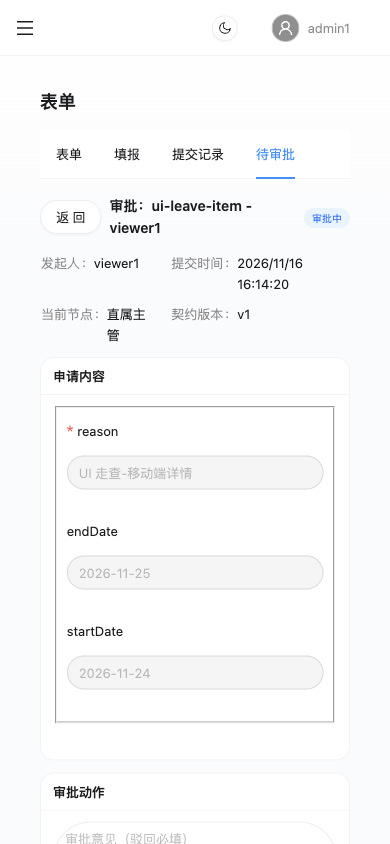
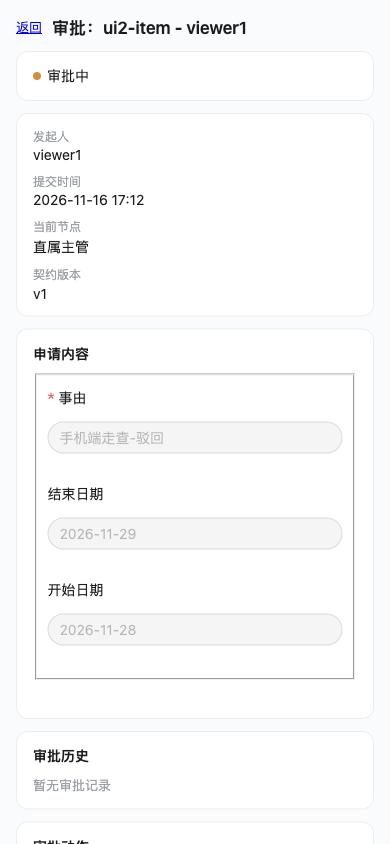
test(oa): org 门与移动端 /m 收口复测——真引擎 26/26、390px 审批走通（#2380）
X-Orca-Worktree: 0127bece-701c-43f0-96c9-c5e736ce1df5::/Users/duo/orca/workspaces/platform-core/oa-p1-acceptance
X-Orca-Agent: claude
X-Agent-Session: 2290b240-91ef-475f-83ad-8aceff71572f

diff --git a/docs/superpowers/plans/2026-11-16-oa-p1-acceptance.md b/docs/superpowers/plans/2026-11-16-oa-p1-acceptance.md
@@ -3,7 +3,8 @@
 > 关联：设计 spec `docs/superpowers/specs/2026-11-16-ai-native-oa-design.md` §10/§18；
 > 实施计划 `docs/superpowers/plans/2026-11-16-ai-native-oa-p0-p1.md` Task 15；
 > 平台 PR：`MYTech-Co-LTD/platform-core#2373`（合并提交 `98d8eee8`）；
-> 引擎 PR：`MYTech-Co-LTD/case-engine#120`（`origin/main` = `e027a03`，v0.16.0）。
+> 引擎 PR：`MYTech-Co-LTD/case-engine#120`（应用内审批链，`e027a03`）与 `#123`（org 门，
+> `origin/main` = `216a3aa`，v0.16.1）。
 >
 > 本篇是**一次真实运行的记录**，不是设计推演。命令、输出、DB 行、时间（一律北京时间）都在下面；
 > 脚本可重跑，重跑会得到新的 asset 后缀与时间戳，断言口径不变。
@@ -15,9 +16,9 @@
 | 执行时间 | 2026-11-16 15:27:22 – 15:27:25 BJT |
 | 机器 | 本机（macOS / Node 22 / 本机 PostgreSQL 16，`postgres://platform:***@127.0.0.1:5432/platform`） |
 | 平台 | 本仓校验分支 `ylwzzs/oa-p1-acceptance`（= `main` `98d8eee8`）真进程 `apps/server/src/index.ts` |
-| 引擎 | 两次运行：**假引擎**（15:27，`oa-p1-smoke.mjs` 内置）与 **真实 case-engine**（16:05，本地 node 起 `origin/main` `e027a03`）——后者见 §10 |
-| 追加验收 | 2026-11-16 16:08–16:14 BJT：dev-stack + 构建后的 web dist + Orca 内置浏览器走查（§11） |
-| 租户 | 自建 `oa-smoke`（single 模式 `PLATFORM_ORG=oa-smoke`），不碰 acme/beta 与本机其它夹具 |
+| 引擎 | 三次运行：**假引擎**（15:27，`oa-p1-smoke.mjs` 内置）、**真实 case-engine 首轮**（16:05，`e027a03`，发现 org 缺口）、**修复后复测**（17:08，`216a3aa` 含 #123，`ENGINE_ORG=acme`）——见 §10 |
+| 追加验收 | 桌面走查 16:08–16:14；移动端 `/m/oa/approvals` 走查 17:10–17:13（platform #2381）——见 §11 |
+| 租户 | 首轮 smoke 用自建 `oa-smoke`；org 门复测与 UI 轮按任务单用 **`acme`**（`ENGINE_ORG=acme`） |
 | 身份 | MockCasdoor（真 HTTP，真登录 + 租户管理员 `/api/update-permission` 授权；不是签假会话） |
 | 通知 | 真链：`modules/notify/seed-builtin.ts`（模板+派生规则）→ `scripts/notify-worker.mjs --once` → `notify.inbox` |
 
@@ -29,8 +30,8 @@
   （`platform.oa_engine` 登记行 + secret 引用）、提交建单补偿、计划快照、审批代理授权、回调幂等、
   通知事件/模板/规则/worker/inbox——以及引擎**契约的形状**（org 校验、节点循环、quorum、撤回 CAS）。
 - 真引擎轮证明：同一批断言在真 HTTP + 真 workflow + 真回调下成立（含并发 409、在途单不吃 v2、
-  回调重放 deduped），并暴露出**一处真实契约缺口**：spec §10.2 的「org 不一致 403」在真引擎里
-  未实现（实测 201 建单）——如实记 FAIL（§10.3）。
+  回调重放 deduped）。首轮还暴露出**一处真实契约缺口**：spec §10.2 的「org 不一致 403」未实现
+  （实测 201 建单）；case-engine #123 修复后 17:08 复测 **26/26 PASS**，两条 org 判据全绿（§10.4）。
 
 > 第一轮文字保留原样（§0–§9 是 15:27 那一次的记录，含假引擎细节）；追加轮次在 §10/§11，
 > 两轮的时间戳、DB 行、断言结果分别标注，别把两轮数字混在一起读。
@@ -195,11 +196,10 @@ worker 一轮统计：`{"events":3,"deliveries":3,"sent":3,"failed":0,"dead":0}`
 
 ## 5. 发现与边界（不粉饰）
 
-1. **真引擎首轮未跑，16:05 已补跑并发现一处 FAIL**：15:27 轮（§0–§9）的引擎行为是假引擎按 §10
-   契约实现的；16:05 追加轮（§10）用真 case-engine `e027a03` 复跑，25 条中 24 条 PASS，
-   **`neg.org-engine` FAIL——真引擎对 `org=beta` 的建单请求返回 201（真的建了 case），
-   spec §10.2 要求的 403 没有实现**（`core/engine/src/mastra.ts` 的 `POST /cases` 无 org 校验）。
-   这条必须修引擎或改契约，不能按 PASS 记。
+1. **真引擎首轮（16:05）发现 org 缺口，已在 #123 修复并复测转 PASS**：首轮 24/25，
+   `neg.org-engine` 对 `org=beta` 返回 201（真的建了 case）。case-engine #123 加 `ENGINE_ORG`
+   门后，17:09 复测 **26/26 PASS**：`org=beta` → 403 ORG_MISMATCH、缺 org → 400 ORG_REQUIRED
+   （§10.4）。首轮记录保留在 §10.2 作为缺陷物证。
 2. **企微通道未送达**：`wecom_default` 三条 delivery 为 `dead / missing_channel_address`——验收环境
    的 MockCasdoor 用户没有手机号/企微地址（`platform` 组织与 identity-link 无数据）。这是**环境缺料**，
    不是通道代码失败；`inapp_default` 三条全部 `sent`，收件箱断言已过。企微直连的上线实测另有记录
@@ -210,11 +210,10 @@ worker 一轮统计：`{"events":3,"deliveries":3,"sent":3,"failed":0,"dead":0}`
    观测到的是引擎 CAS 路径（`statuses=[200,409]`）。真引擎轮（§10）把并发点放在**末节点**：一个
    200 结案、另一个 409（`isClosed`），同样只落一次决策——中间节点不选它，是因为真引擎对非当前
    节点审批人回 400（平台映射 502），会把「重复决策」与「已不是你的节点」两种病因混在一起。
-4. **UI 已在 16:08–16:14 补走查**（§11），但发现一个**产品口径冲突**：390px 宽打开 console
-   默认被 `MobileConfigNotice` 拦成「配置请在电脑端完成」——审批列表/详情在手机默认路径**不可达**；
-   加 `?desktop=1` 后页面本身响应式正常（390px 无横向溢出、列表走卡片、详情可读、拒绝按钮
-   空意见禁用）。这与计划 Self-Review「移动端用响应式 console 页承接」的取舍**不一致**，
-   要么给 OA 审批开一个 console 白名单，要么补 `/m` 入口（P1 未做）。
+4. **UI 移动端缺口已由 #2381 修复并复测**：16:08 轮 390px 默认被 `MobileConfigNotice` 拦；
+   platform #2381 新增 `/m/oa/approvals`（不经 console 壳）后，17:10–17:13 复测：无拦截、
+   `scrollWidth==innerWidth`、空意见「拒绝」禁用、通过与驳回都由真引擎回调驱动（§11.3）。
+   console 直开仍被拦是**产品口径**（PC=配置面），不是缺陷。
 5. **残留数据是设计的一部分**：submission `786` 停在 `pending_approval` 是「决策后撤回 409 且状态
    不变」的断言本体；重跑会在开跑时清掉本 org 的提交/审计/通知/映射行（published asset 物理不可删，
    故 asset_id 每次带随机后缀）。
@@ -241,17 +240,19 @@ DATABASE_URL=postgres://platform:platform@127.0.0.1:5432/platform \
 
 ---
 
-## 10. 追加验收 A：真实引擎 E2E（2026-11-16 16:05 BJT）
+## 10. 追加验收 A：真实引擎 E2E（首轮 16:05 发现缺口 → 修复后 17:08 复测）
 
-> 这一节回答 T7 边界之一：「假引擎证明了平台接缝，但真引擎没跑」。运行结果 **24 PASS / 1 FAIL**，
-> FAIL 是真的契约缺口，不是量具错——原样记在 §10.3。
-> 收尾回归：加完 `--real-engine` / `--mint-service-pat` 后，假引擎模式在 16:16:54 BJT 复跑仍
-> **25/25 PASS**（`oa-p1-smoke: OK（25 条断言全过）`），两种模式共用同一批断言。
+> 这一节回答 T7 边界之一：「假引擎证明了平台接缝，但真引擎没跑」。
+> **首轮（16:05，引擎 `e027a03`）24 PASS / 1 FAIL**——org 不一致建单返回 201，spec §10.2 要求 403；
+> 该缺口由 case-engine #123 修复（`ENGINE_ORG` + `checkOrg`）。**修复后（17:08，引擎 `216a3aa`）
+> 同一脚本复测 26/26 PASS**（含新增的「缺 org → 400 ORG_REQUIRED」），原告 FAIL 的两条 org 判据
+> 全部转 PASS——证据在 §10.4。
+> 收尾回归：假引擎模式在 17:07:45 BJT 复跑 **26/26 PASS**，两种模式共用同一批断言。
 
 ### 10.1 起栈方式（本地 node，不用 Docker）
 
-case-engine 是私有仓，用它的 `origin/main`（`e027a03` = v0.16.0，#120 已合）在 `/tmp/oa-engine/case-engine`
-建 worktree，**不碰本机既有 checkout**：
+case-engine 是私有仓，用它的 `origin/main`（修复后复测取 `216a3aa` = v0.16.1，含 #120 + #123）在
+`/tmp/oa-engine/case-engine` 建 worktree，**不碰本机既有 checkout**：
 
 ```bash
 git -C /Users/duo/mytechcode/case-engine worktree add /tmp/oa-engine/case-engine origin/main
@@ -269,7 +270,8 @@ PAT=$(DATABASE_URL=postgres://platform:***@127.0.0.1:5432/platform \
 
 # 起引擎（in-process：orchestration+scheduler 同进程；不拆 worker 就不需要 Redis）
 DATABASE_URL=postgres://platform:***@127.0.0.1:5432/case_oa \
-PORT=13200 ENGINE_STORAGE_ID=oa-engine-e027a03 ENGINE_VERSION=case-engine-e027a03 \
+PORT=13200 ENGINE_STORAGE_ID=oa-engine-e027a03 ENGINE_VERSION=case-engine-216a3aa \
+ENGINE_ORG=acme \
 MASTRA_WORKERS=orchestration,scheduler \
 NOTIFY_PLATFORM_BASE=http://127.0.0.1:13300 NOTIFY_PAT="$PAT" \
 node .mastra/output/index.mjs
@@ -278,19 +280,20 @@ node .mastra/output/index.mjs
 实测启动输出：
 
 ```
-{"planVersion":1,"engineVersion":"case-engine-e027a03","providers":["inapp"],
+{"planVersion":1,"engineVersion":"case-engine-216a3aa","providers":["inapp"],
  "features":["nodeLoop","quorum","nodeSla","collab"]}          ← GET /capabilities
-{"mode":"in-process","llm":{"configured":false},"redisUrl":null} ← GET /engine/config
+{"org":"acme","mode":"in-process","llm":{"configured":false},"redisUrl":null} ← GET /engine/config
 Mastra API running { url: 'http://localhost:13200/api' }
 ```
 
-两点口径说明（避免照抄错）：
+三点口径说明（避免照抄错）：
 
-- **引擎代码里没有 `ENGINE_ORG` 这个 env**（`git grep ENGINE_ORG origin/main` = 0 命中）。
-  租户归属由平台 `platform.oa_engine` 登记行 + `POST /cases` 的 `body.org` 表达；`provider` 只有
-  `inapp`（能力面自报）。本轮 smoke 的 org 用 `oa-smoke`（脚本自建租户，避免踩 acme 的本地演示数据）；
-  **任务单要求的 acme 映射在同一真引擎上由 §11 的 UI 轮实测**：引擎库 `cases` 里 804/805 的
-  `payload->>'org'` 都是 `acme`，审批通过/驳回都由真引擎回调驱动。
+- **`ENGINE_ORG` 自 case-engine #123 起是必填的 org 门基准**（首轮 `e027a03` 没有这个 env，
+  正是「org 不一致被 201 接受」的根因；`ENGINE_ORG=""` 空白同样算缺失，不会静默不校验）。
+  公开端点的 org 携带方式：`POST /cases` / `decision` / `withdraw` 走 **body.org**；
+  `GET /cases`、`GET /cases/:id` 走 **query org**；缺失 400 ORG_REQUIRED，不匹配 403 ORG_MISMATCH。
+- 平台 `platform.oa_engine` 的登记行 + 平台侧身份 org 必须与 `ENGINE_ORG` **逐字一致**
+  （大小写敏感）。本轮两边都是 `acme`：smoke 用 `OA_SMOKE_ORG=acme` 跑，提交/回调/审批页全在 acme 下。
 - `NOTIFY_PLATFORM_BASE` 必须钉到一个**固定端口**（本轮 13300）——平台脚本的 `--real-engine`
   因此要求 `OA_SMOKE_PLATFORM_PORT`，端口随机会让真回调打到空端口，看起来像「引擎不回调」。
 
@@ -308,7 +311,7 @@ pnpm exec tsx scripts/oa-p1-smoke.mjs --real-engine
 脚本先打 `GET /capabilities` 并断言 `engineVersion !== fake-engine-0.1.0`——**防止把假引擎的
 PASS 当成真引擎的 PASS**（`--real-engine` 缺任何一个 env 直接 fail-fast，不静默退回替身）。
 
-### 10.2 结果（2026-11-16 16:05:15 – 16:05:18 BJT）
+### 10.2 首轮结果（2026-11-16 16:05:15 – 16:05:18 BJT，引擎 `e027a03`）
 
 | 组 | 结果 | 证据 |
 |---|---|---|
@@ -338,16 +341,51 @@ ce54185c-… closed approve   oa-smoke forms:submission:799   ← 主路径
 
 ### 10.3 与契约的三处偏差（不影响主流程，但要登记）
 
-1. **org 校验缺失（FAIL，需引擎修）**：见上表。平台侧不受影响（平台不会发别人的 org——`main.engine-create`
-   断言 `externalRef` 命中、平台回调侧 `org:"beta"` 仍 403 ORG_MISMATCH），但**单租户引擎的安全边界
-   现在只靠「调用方自觉」**。
+1. **org 校验缺失（首轮 FAIL；已由 case-engine #123 修复并复测 PASS）**：首轮见上表（201 建单）。
+   平台侧当时不受影响（平台不会发别人的 org），但单租户引擎的安全边界只靠「调用方自觉」。
+   #123 给公开端点加了 `ENGINE_ORG` 门：缺 400 / 不匹配 403；17:08 复测两条都 PASS（§10.4）。
 2. **`finalAction` 词汇不同**：真引擎落 `approve` / `reject`（动词），平台 submission 用
    `approved` / `rejected`。回调里由引擎转写，所以平台侧无感；断言按两套词汇都接受。
 3. **没有 `gate.node.decided` case event**：真引擎把节点决策写 `case_node_decisions` 表，
    `case_events` 只有 `intake` / `writeback`。计划 Task 15 写的「无重复 `gate.node.decided`」
    在真引擎上按**等价判据**执行：`nodeDecisions` 每节点恰好 1 条、无 `(nodeKey,approver)` 重复。
 
-## 11. 追加验收 B：UI 走查（2026-11-16 16:08–16:14 BJT）
+### 10.4 修复后复测（2026-11-16 17:09:18 – 17:09:21 BJT，引擎 `216a3aa` 含 #123）
+
+命令与 §10.1 相同，差别只有两处：引擎带 **`ENGINE_ORG=acme`**（#123 起必填），脚本带
+**`OA_SMOKE_ORG=acme`**（org 必须与引擎逐字一致）：
+
+```bash
+# 引擎（216a3aa）：ENGINE_ORG=acme / VERSION=case-engine-216a3aa / 其余同 §10.1
+# 平台脚本：
+OA_SMOKE_ORG=acme DATABASE_URL=… \
+OA_SMOKE_ENGINE_URL=http://127.0.0.1:13200 OA_SMOKE_ENGINE_PAT=… \
+OA_SMOKE_SERVICE_PAT=… OA_SMOKE_PLATFORM_PORT=13300 \
+pnpm exec tsx scripts/oa-p1-smoke.mjs --real-engine
+```
+
+结果：**26 / 26 PASS，`failures=0`**（`oa-p1-smoke: OK（26 条断言全过；2026-11-16 17:09:21 BJT）`）。
+两条 org 判据（首轮 FAIL 的那条 + 新增的缺 org）实测：
+
+| 判据 | 结果 | 证据 |
+|---|---|---|
+| `POST /cases {org:"beta", 合法 plan}` | **PASS** | `403 {"error":"ORG_MISMATCH"}`；没有建 case（engine 库无该 externalRef） |
+| `POST /cases` 缺 org | **PASS** | `400 {"error":"ORG_REQUIRED"}` |
+| 主路径 / 撤回 / 重放 / 在途 v2 / 并发 | PASS | submission `903` approved（leader+hr）、`904` withdrawn、`905` 决策后撤回 409 留 `gate/hr`、`906` 在途 v1 approved、`907` 并发 `[200,409]` hr 决策 1 条 |
+
+引擎库 `case_oa`（org 列已随 #123 落**校验过的实例租户**）：
+
+```
+forms:submission:903 closed approve   org=acme
+forms:submission:904 closed withdrawn org=acme
+forms:submission:905 gate             org=acme   ← 决策后撤回 409 的留档
+forms:submission:906 closed approve   org=acme
+forms:submission:907 closed approve   org=acme
+```
+
+**结论：T9（case-engine #123 org 门）在真引擎上复测通过，首轮 FAIL 已转 PASS。**
+
+## 11. 追加验收 B：UI 走查（2026-11-16 16:08–16:14 桌面；17:10–17:13 移动端）
 
 ### 11.1 起栈与夹具
 
@@ -359,7 +397,7 @@ node scripts/gen-console-registry.mjs && pnpm --filter @platform/web exec vite b
 PLATFORM_SUBSCRIPTION_SOURCE=platform DEV_STACK_PORT=13100 \
 OA_ENGINE_PAT_ACME="$(cat <acme PAT>)" \
 pnpm exec tsx scripts/dev-stack.mjs
-# MockCasdoor :51734 / 宿主 http://127.0.0.1:13100
+# MockCasdoor 随机端口（日志里有）/ 宿主 http://127.0.0.1:13100
 ```
 
 真引擎按 §10.1 重启，`NOTIFY_PLATFORM_BASE=http://127.0.0.1:13100`、`NOTIFY_PAT=<acme admin1 PAT>`；
@@ -388,13 +426,20 @@ pnpm exec tsx scripts/dev-stack.mjs
 
 ### 11.3 窄屏 390px（`~390px` 要求）
 
-| 场景 | 结果 | 证据 |
-|---|---|---|
-| 默认打开 `/console/forms/approvals`（390px） | **FAIL（不可达）** | console 壳命中 `MobileConfigNotice`：「配置请在电脑端完成」+「打开手机工作台」+「仍要打开桌面版」；审批列表/详情在手机默认路径打不开。截图 `docs/img/oa-p1-mobile-gate.png` |
-| `?desktop=1` 强制桌面版：列表 | **PASS** | 响应式卡片列表（`.ant-list-item` = 1，非 Table），`scrollWidth=innerWidth=390`、`overflow=false`；截图 `docs/img/oa-p1-approvals-390.png` |
-| `?desktop=1` 强制桌面版：详情 | **PASS** | 只读字段 + 审批动作可读，`overflow=false`，空意见「拒绝」仍 `disabled:true`；截图 `docs/img/oa-p1-approval-detail-390.png` |
+> 16:08 轮曾判 **FAIL**：390px 默认打开 `/console/forms/approvals` 被 `MobileConfigNotice`
+> 拦成「配置请在电脑端完成」，OA 审批手机默认不可达。该缺口由 platform #2381（Closes #2380）
+> 修复：新增 `/m` 移动壳下的 `/m/oa/approvals` 与 `/m/oa/approvals/:caseId`，**不经 console 壳**。
+> 17:10–17:13 用同一套真引擎（`ENGINE_ORG=acme`）复测如下：
 
-**判定**：页面组件本身在 390px 是响应式可用、无横向溢出的（三种视图 `overflow=false`）；
-但**产品壳层把移动端 console 整体拦掉**，OA 审批没有 `/m` 入口（P1 未接）⇒ 审批人用手机
-默认打不开待审批。这与计划 Self-Review 的「移动端用响应式 console 页承接」冲突，需产品决断：
-要么把 OA 审批页加入移动白名单，要么补 `/m` 深链（P1.5）。在决断前，本条按 **FAIL** 记。
+| 场景（390×844，Orca 内置浏览器） | 结果 | 证据 |
+|---|---|---|
+| 打开 `/m/oa/approvals` | **PASS** | 无「配置请在电脑端完成」（`gate:false`）；渲染 2 张待办卡片；`scrollWidth=innerWidth=390`、`overflow=false`。截图 `docs/img/oa-p1-approvals-390.png` |
+| 点卡进 `/m/oa/approvals/:caseId` | **PASS** | 状态「审批中」、当前节点「直属主管」、只读申请内容、审批历史；`overflow=false` |
+| 空意见时「拒绝」禁用 | **PASS** | DOM `{approveDisabled:false, rejectDisabled:true}`；录取意见后 `rejectDisabled:false`。截图 `docs/img/oa-p1-approval-detail-actions-390.png`（动作区） |
+| **驳回**（真引擎） | **PASS** | submission `910` → `rejected`（17:12:36 BJT，意见「手机端走查：材料不全」）；引擎 case `e635d9b4-…` `closed / reject`；列表剩 1 张 |
+| **通过**（真引擎） | **PASS** | submission `908` → `approved`（17:12:55 BJT）；引擎 case `27918abc-…` `closed / approve`；列表「暂无待审批」、`overflow=false` |
+
+判定：**390px 默认路径可用，无 console 拦截、无横向溢出；通过与驳回都是真引擎回调驱动**
+（不是前端本地改状态）。16:08 轮的 FAIL 已由 #2381 修复并从 FAIL 转 PASS；
+`docs/img/oa-p1-mobile-gate.png` 保留为「console 直开仍被拦」的对照证据（产品口径未变：
+console 仍是 PC 配置面，审批走 `/m` 业务面）。
